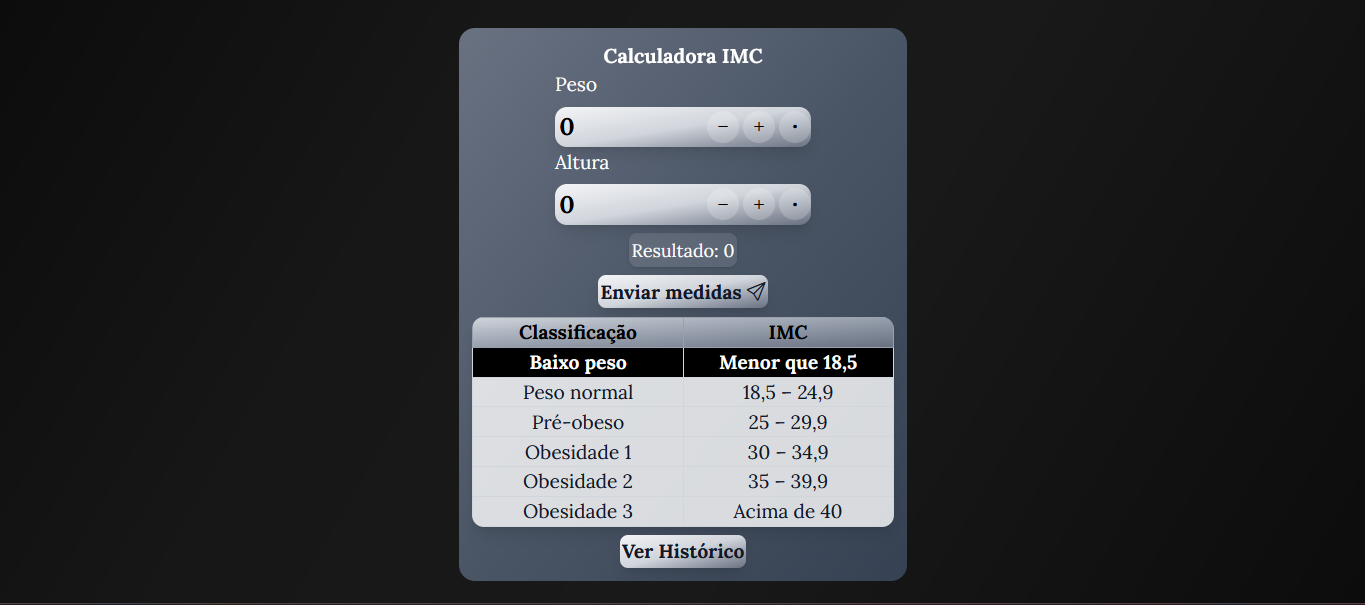
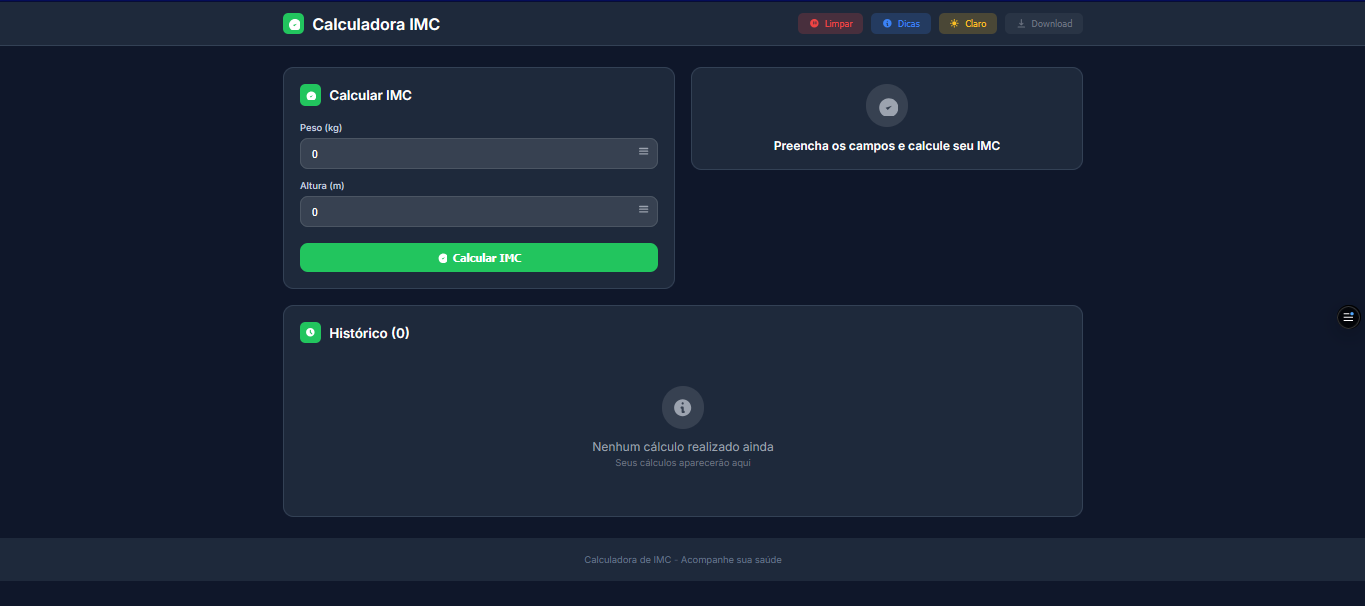
Atualização de imagens de projetos

diff --git a/blog-p-app/src/components/Projetos.tsx b/blog-p-app/src/components/Projetos.tsx
@@ -373,7 +373,7 @@ export default function Projetos() {
     {
     title: "Calculadora IMC | Acompanhe sua Saúde",
     description: "Aplicação web moderna e responsiva para cálculo do Índice de Massa Corporal (IMC). Inclui histórico de cálculos, download de dados em CSV, notificação PWA para instalação, tema escuro/claro e design totalmente adaptável para todos os dispositivos.",
-    image: "img-projetos/calculadora-imc.png",
+    image: "img-projetos/projeto-calc-imc.png",
     link: "https://calculadora-imc-liard-omega.vercel.app/",
     technologies: ["Next.js", "TypeScript", "Tailwind CSS", "Zustand", "PWA", "Framer Motion", "Jest"],
     performance: "98%",
